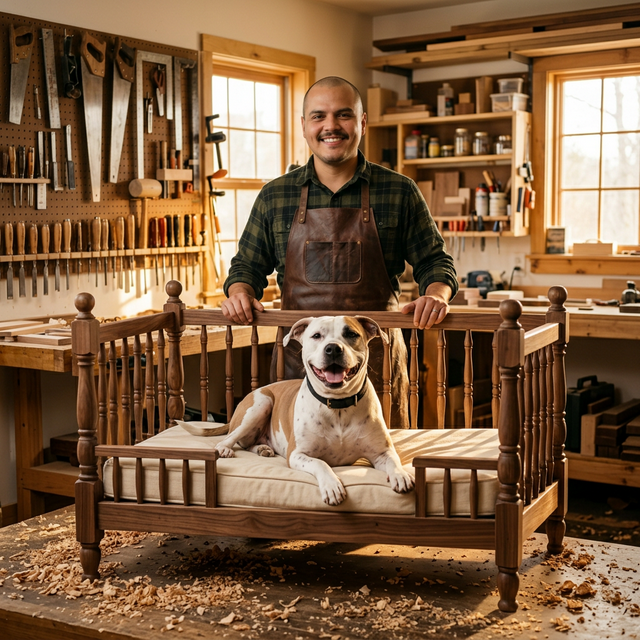
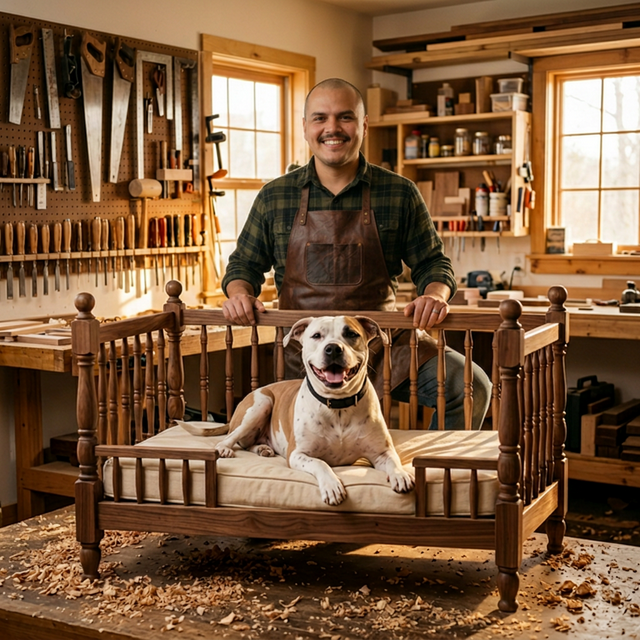
feat: new hero image - man and dog both clearly visible, updated CSS position

diff --git a/rivera-dog-beds.html b/rivera-dog-beds.html
@@ -162,7 +162,7 @@
         #hero-bg {
             position: absolute;
             inset: 0;
-            background: url('images/hero_workshop.png') 50% 55%/cover no-repeat;
+            background: url('images/hero_workshop.png') 50% 35%/cover no-repeat;
             will-change: transform;
         }
 
